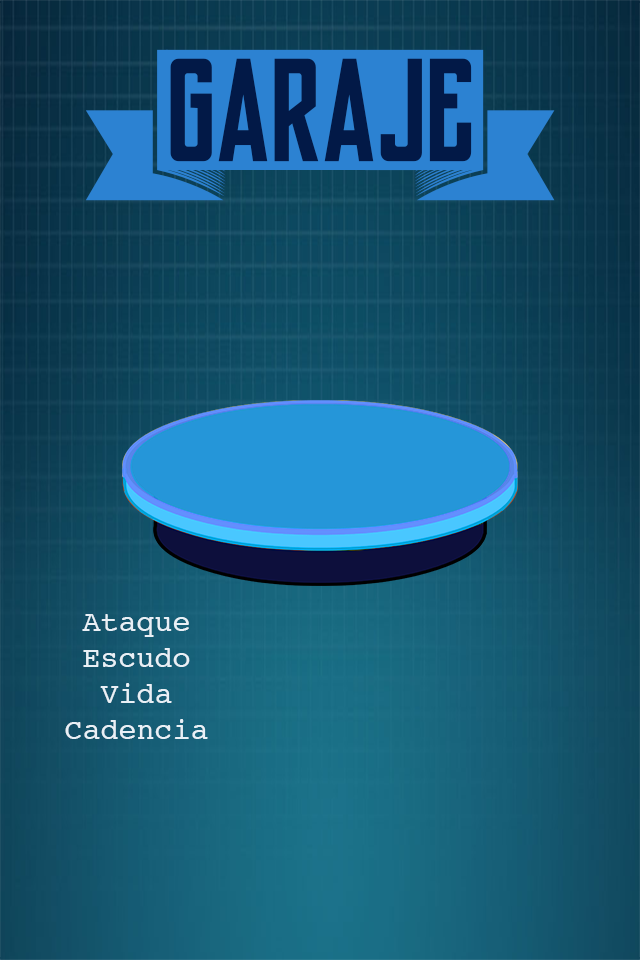
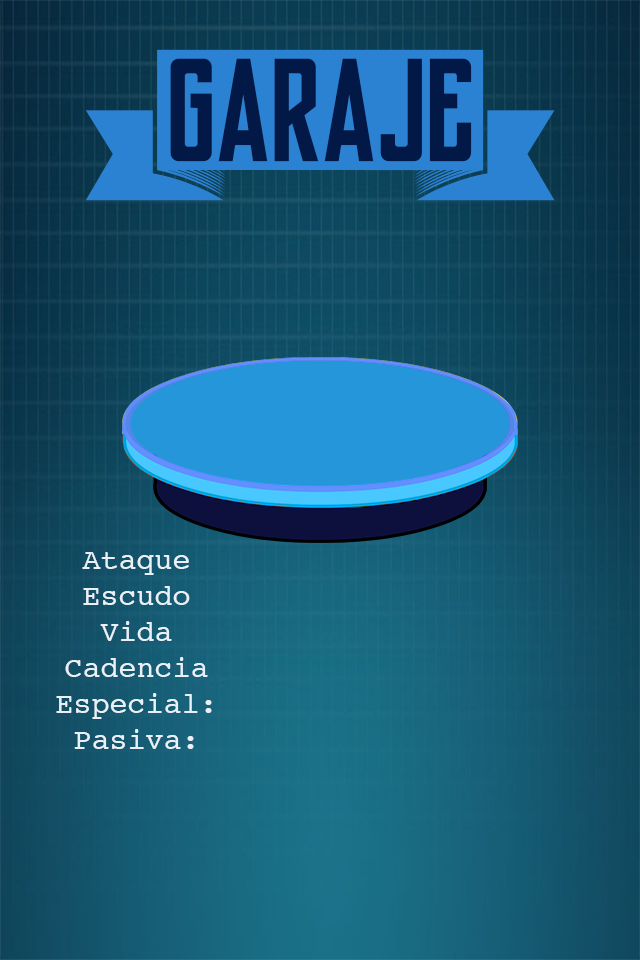
garaje con pasivas y ataque especial y arreglado bug de desbloqueo de nave

Changed region(s): [[0.0938, 0.375, 0.8125, 0.7812]]

diff --git a/core/src/com/navejuego/pantallas/PantallaGaraje.java b/core/src/com/navejuego/pantallas/PantallaGaraje.java
@@ -39,7 +39,7 @@ public class PantallaGaraje extends Pantalla {
     private SpriteBatch batchGaraje;
 
     private Texture plataforma;
-    private Image barraAtaque, barraEscudo, barraCadencia, barraVida, nave1;
+    private Image barraAtaque, barraEscudo, barraCadencia, barraVida, nave1, ataqueEspecial;
     private TextButton aceptar;
 
 
@@ -70,9 +70,11 @@ public class PantallaGaraje extends Pantalla {
 
 
         font = new BitmapFont(Gdx.files.internal("otherfont/font.fnt"));
+        font.getData().setScale(0.15f*Gdx.graphics.getWidth()/360.f,0.15f*Gdx.graphics.getHeight()/640.0f);
 
        opcion = Constantes.naveUltimaSeleccion;
         System.out.println("Nave numero:" + opcion);
+        System.out.println(PartidaGuardada.getInstance().getNaveDesbloqueada());
 
 
         batchGaraje = new SpriteBatch();
@@ -81,24 +83,25 @@ public class PantallaGaraje extends Pantalla {
         jugador = new JugadorType(opcion);
 
         nave1 = new Image(jugador.textura);
-        nave1.setPosition(Gdx.graphics.getWidth() / 2 - 2 * 80 * Constantes.resizeWidth / 2, Gdx.graphics.getHeight() / 3 + Gdx.graphics.getHeight() / 8);
+        nave1.setPosition(Gdx.graphics.getWidth() / 2 - 2 * 80 * Constantes.resizeWidth / 2, Gdx.graphics.getHeight() / 3 + Gdx.graphics.getHeight() / 6);
         nave1.setSize(2 * 80 * Constantes.resizeWidth, 2 * 80 * Constantes.resizeHeight);
 
         barraAtaque = new Image(GestorAssets.getInstance().getTexture("barraloca.png"));
-        barraAtaque.setPosition(Gdx.graphics.getWidth() / 2 - Gdx.graphics.getWidth() / 8, Gdx.graphics.getHeight() / 3 - Gdx.graphics.getHeight() / 50);
+        barraAtaque.setPosition(Gdx.graphics.getWidth() / 2 - Gdx.graphics.getWidth() / 8, Gdx.graphics.getHeight() / 2 - Gdx.graphics.getHeight() / 8.5f);
         barraAtaque.setSize(Gdx.graphics.getWidth() / 2 * jugador.damage / 17, Gdx.graphics.getHeight() / 16);
 
         barraEscudo = new Image(GestorAssets.getInstance().getTexture("barraloca.png"));
-        barraEscudo.setPosition(Gdx.graphics.getWidth() / 2 - Gdx.graphics.getWidth() / 8, Gdx.graphics.getHeight() / 3 - Gdx.graphics.getHeight() / 18);
-        barraEscudo.setSize(Gdx.graphics.getWidth() / 3 * jugador.maxEscudo/140, Gdx.graphics.getHeight() / 16);
+        barraEscudo.setPosition(Gdx.graphics.getWidth() / 2 - Gdx.graphics.getWidth() / 8, Gdx.graphics.getHeight() / 2 - Gdx.graphics.getHeight() / 6.5f);
+        barraEscudo.setSize(Gdx.graphics.getWidth() / 3 * jugador.maxEscudo / 140, Gdx.graphics.getHeight() / 16);
 
         barraVida = new Image(GestorAssets.getInstance().getTexture("barraloca.png"));
-        barraVida.setPosition(Gdx.graphics.getWidth() / 2 - Gdx.graphics.getWidth() / 8, Gdx.graphics.getHeight() / 3 - Gdx.graphics.getHeight() / 11);
-        barraVida.setSize(Gdx.graphics.getWidth() / 3 * jugador.maxVida/140, Gdx.graphics.getHeight() / 16);
+        barraVida.setPosition(Gdx.graphics.getWidth() / 2 - Gdx.graphics.getWidth() / 8, Gdx.graphics.getHeight() / 2 - Gdx.graphics.getHeight() / 5.25f);
+        barraVida.setSize(Gdx.graphics.getWidth() / 3 * jugador.maxVida / 140, Gdx.graphics.getHeight() / 16);
 
         barraCadencia = new Image(GestorAssets.getInstance().getTexture("barraloca.png"));
-        barraCadencia.setPosition(Gdx.graphics.getWidth() / 2 - Gdx.graphics.getWidth() / 8, Gdx.graphics.getHeight() / 3 - Gdx.graphics.getHeight() / 8);
+        barraCadencia.setPosition(Gdx.graphics.getWidth() / 2 - Gdx.graphics.getWidth() / 8, Gdx.graphics.getHeight() / 2 - Gdx.graphics.getHeight() / 4.35f);
         barraCadencia.setSize(Gdx.graphics.getWidth() / 2 * (1.1f - jugador.cadenciaDisparo), Gdx.graphics.getHeight() / 16);
+
 
         if(opcion > PartidaGuardada.getInstance().getNaveDesbloqueada()){
             nave1.setColor(0,0,0,1);
@@ -132,6 +135,7 @@ public class PantallaGaraje extends Pantalla {
                     PartidaGuardada.getInstance().setNaveSeleccionada(opcion);
                     PartidaGuardada.getInstance().saveGameData();
                     ScreenManager.getInstance().showScreen(ScreenEnum.MAIN_MENU);
+
                 }
             }
         });
@@ -227,6 +231,10 @@ public class PantallaGaraje extends Pantalla {
 
 
         batchGaraje.draw(backgroundGaraje, 0, 0, Gdx.graphics.getWidth(), Gdx.graphics.getHeight());
+
+        font.draw(batchGaraje, String.valueOf(jugador.especialDefinicion), (Gdx.graphics.getWidth() / 2 - Gdx.graphics.getWidth() / 8), Gdx.graphics.getHeight() / 2 - Gdx.graphics.getHeight() / 4.35f);
+        font.draw(batchGaraje, String.valueOf(jugador.pasivaDefinicion), (Gdx.graphics.getWidth() / 2 - Gdx.graphics.getWidth() / 8), Gdx.graphics.getHeight() / 2 - Gdx.graphics.getHeight() / 3.75f);
+
 
 
         batchGaraje.end();

diff --git a/core/src/com/navejuego/entidades/JugadorType.java b/core/src/com/navejuego/entidades/JugadorType.java
@@ -58,6 +58,14 @@ public class JugadorType{
      * Daño realizado con cada disparo
      */
     public int damage;
+    /**
+     * Definicion para el ataque especial que se muestra en el garaje
+     */
+    public String especialDefinicion;
+    /**
+     * Definicion para la pasiva que se muestra en el garaje
+     */
+    public String pasivaDefinicion;
 
     /**
      * Textura de la nave
@@ -100,10 +108,6 @@ public class JugadorType{
         return aEspecial;
     }
 
-    /**
-     * Constructor que configura la clase en base al tipo de nave que especifiquemos por parámetro
-     * @param type Integro que representa la nave a cargar
-     */
     public JugadorType(int type){
         switch (type){
             case 0: //Balanced
@@ -117,6 +121,8 @@ public class JugadorType{
                 this.cadenciaDisparo = 0.4f; //DPS: 27.5
                 this.especial = 0; //oleada de misiles, poco CD
                 this.pasiva = PasivasNave.BLINK_TIME_ON_HIT;
+                this.especialDefinicion= "Lanzamiento de cohetes";
+                this.pasivaDefinicion= "Invulnerabilidad de 1 segundo \ntras ser golpeado";
                 break;
             case 1: //Tank
                 this.vida = 150;
@@ -129,6 +135,8 @@ public class JugadorType{
                 this.cadenciaDisparo = 1f; //DPS: 36 (18 x 2 gracias a dual shots)
                 this.especial = 1; //matar naves
                 this.pasiva = PasivasNave.DUAL_SHOTS;
+                this.especialDefinicion= "Destruye los enemigos";
+                this.pasivaDefinicion= "Dispara 2 proyectiles \npor los laterales";
                 break;
             case 2: //Risky
                 this.vida = 40;
@@ -141,6 +149,8 @@ public class JugadorType{
                 this.cadenciaDisparo = 0.1f; //DPS: 40
                 this.especial = 2;
                 this.pasiva = PasivasNave.SHIELD_ON_KILL;
+                this.especialDefinicion= "Recupera el escudo";
+                this.pasivaDefinicion= "Matar un enemigo te \nda 1 punto de escudo";
                 break;
             default:
                 this.vida = 1;

diff --git a/core/src/com/navejuego/pantallas/PantallaVictory.java b/core/src/com/navejuego/pantallas/PantallaVictory.java
@@ -121,6 +121,7 @@ public class PantallaVictory extends Pantalla{
 
                     if (navedesbloqueada > PartidaGuardada.getInstance().getNaveDesbloqueada()) {
                         PartidaGuardada.getInstance().setNaveDesbloqueada(navedesbloqueada);
+                        PartidaGuardada.getInstance().saveGameData();
                         System.out.println("Nave debloqueada: " + navedesbloqueada);
                     }
 
